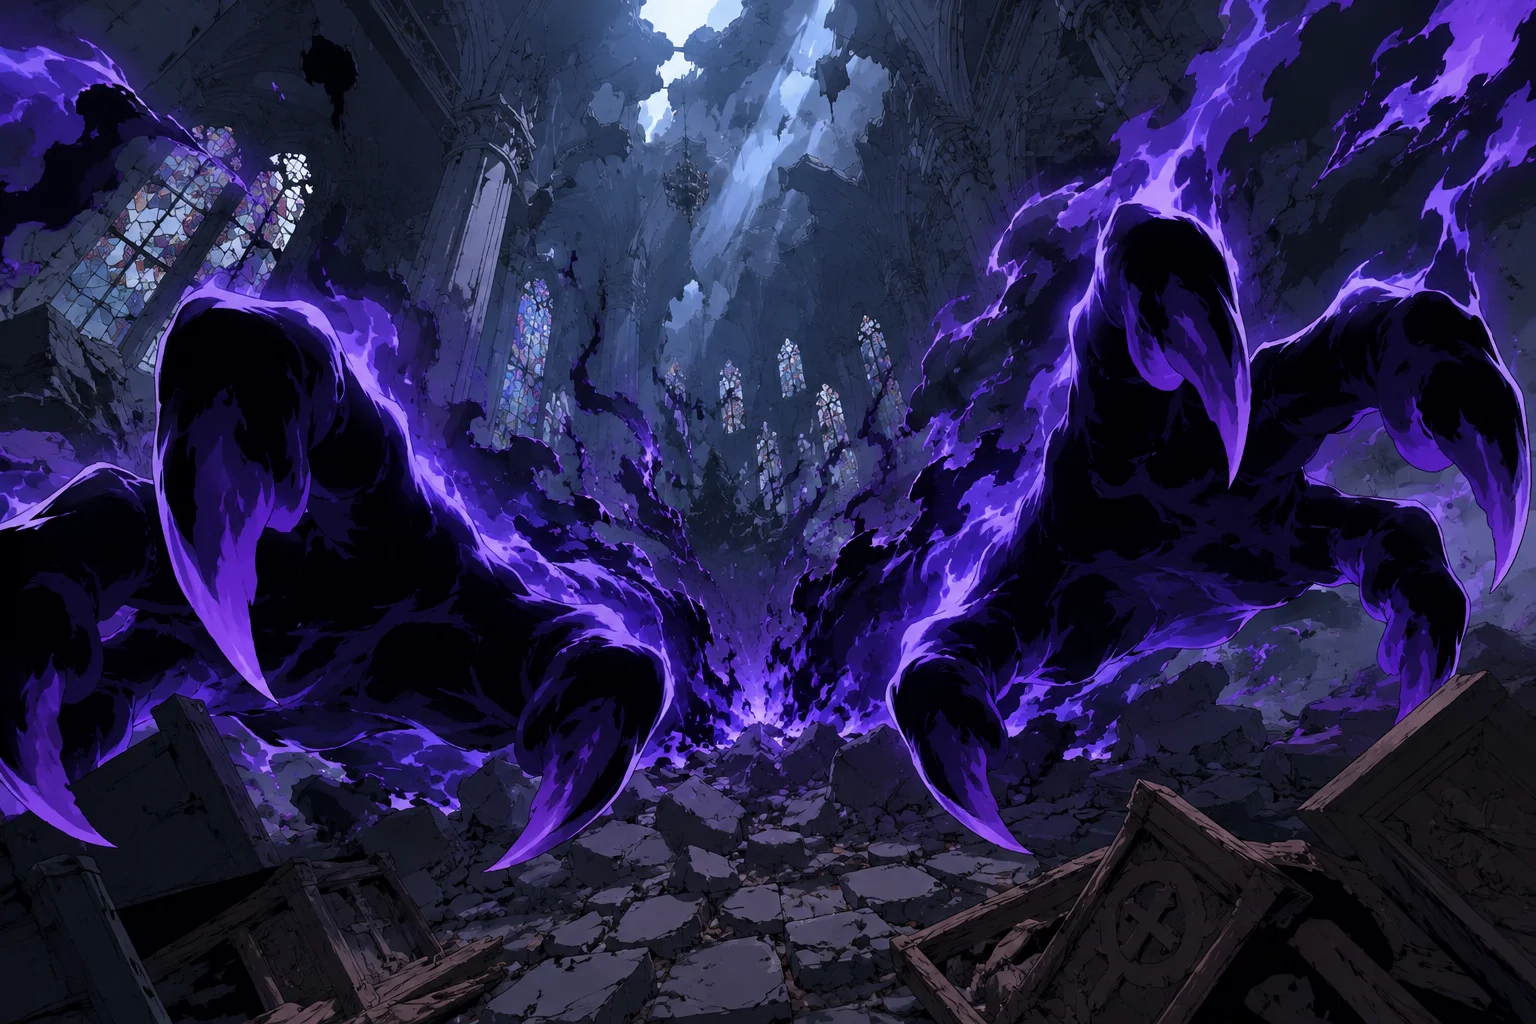
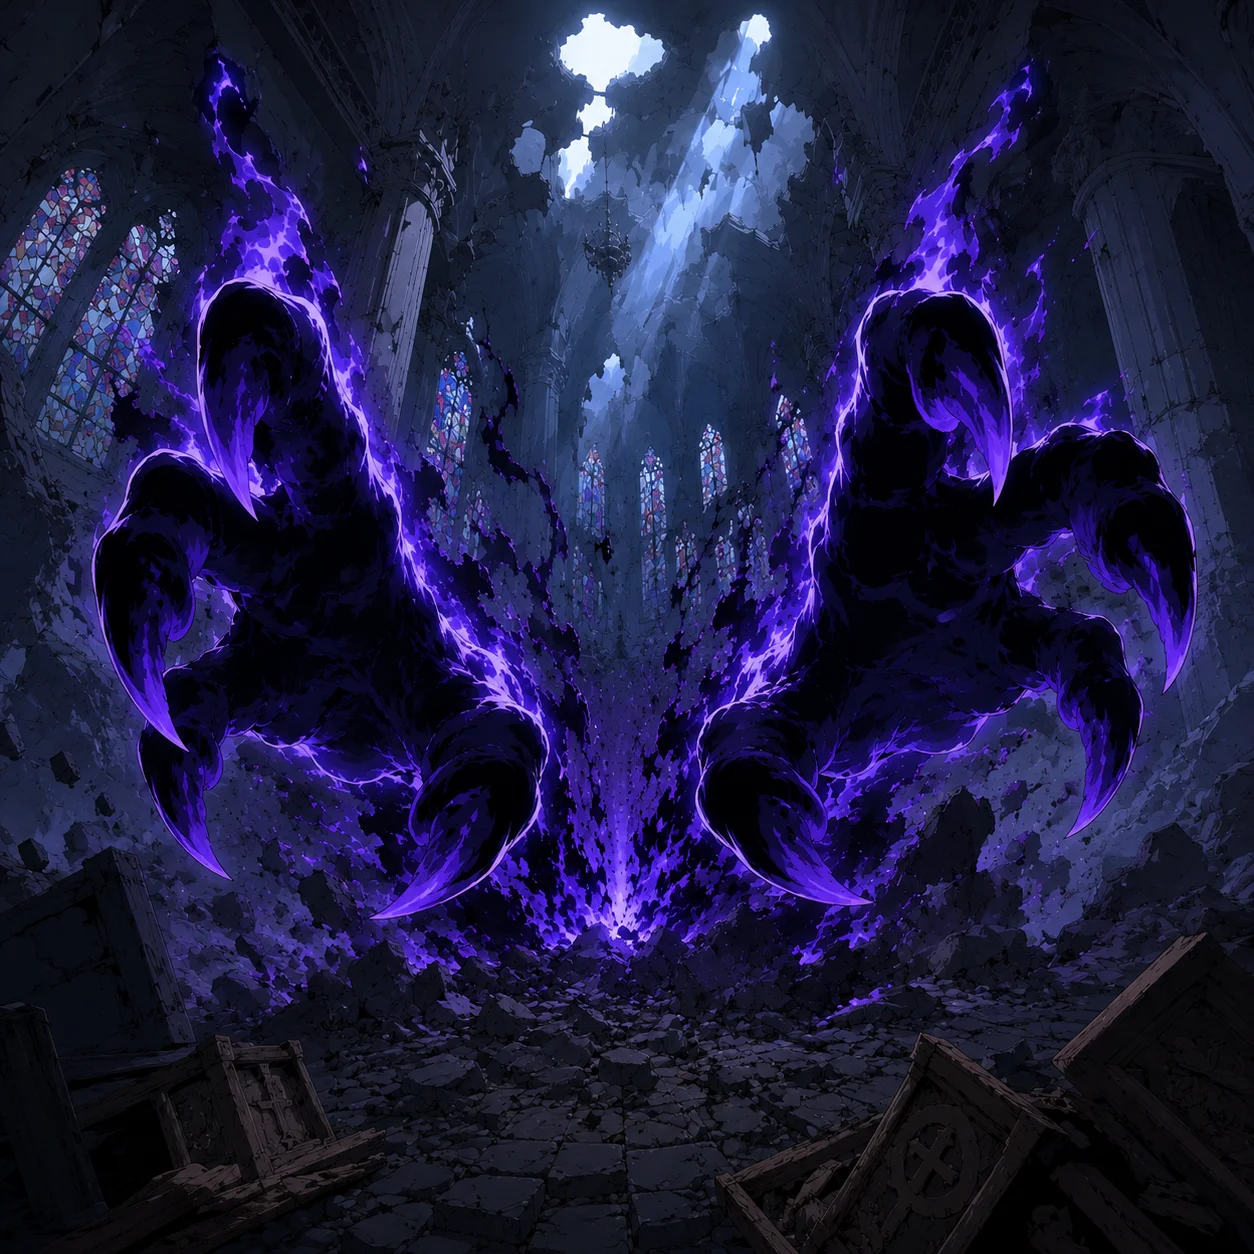
feat(art): TheClaws 換上重繪的正方版，改回滿版 cover ver -617
Ray 交件（1254×1254，1:1）—— 設計完全照舊（教堂廢墟、兩道紫黑能量之爪、
屋頂破洞的光柱、滿地瓦礫），只把兩隻爪往內收、改成往上長。

· 轉 WebP 覆蓋 `resources/enemy/TheClaws.webp`，原 PNG 進 `_originals/enemy/`。
· 敵人卡拿掉 -616 的 `fit:{mode:'contain'}`，**走回滿版 cover** ——
  那個 contain 是 3:2 舊圖的權宜之計（cover 會裁掉左右各約四分之一，
  而爪子正好在兩側）。正方畫幅下 cover 只切掉邊緣約 7%，構圖完整、
  沒有上下黑邊，那才是這張圖原本的呈現方式。
· `bg`＝教堂留著當保底（不走城鎮那條路時單獨叫用）。

實測：np_claws 的立繪是 TheClaws.webp、原始 1254×1254、objectFit cover、
框 390×420、裁切 7.1%。

diff --git a/config.js b/config.js
@@ -1099,13 +1099,13 @@ export const GAME_CONFIG = {
     },
     /* ══ 瓦礫中的紫黑之爪（ver -595，Ray 交稿）══ 教堂那一場之後的真 BOSS，
        也是**聖徒化教學戰**（腳本見 script/town.js 的 northport.church）。
-       ⚠⚠ **走 `contain` 不走 cover**（ver -616，Ray：「禍魘 boss 的圖左右被裁太多」）：
-         這張是 **1536×1024（3:2 橫式）**，而 `#top` 只有 390×422（幾乎正方）——
-         `cover` 會把左右各裁掉一大截，兩隻爪子正好在兩側，整個構圖就沒了。
-         `contain` ＝ 一個像素都不裁，上下留白由 `#top` 的底圖補（城鎮戰交棒時
-         那是教堂那張，ver -592）。
-       ⚠ 另外給 `bg`＝教堂：不是走城鎮那條路（單獨叫用、日後從別處進來）時，
-         留白處才不會是一片黑。
+       ⚠⚠ **圖已重繪成 1254×1254（1:1）**（ver -617，Ray 交件；規格見
+         `resources/background/_boss_claw_spec.md`）—— 所以走回**滿版 cover**。
+         ⚠ -616 曾經改 `contain`：那時的圖是 1536×1024（3:2），而 `#top` 幾乎正方
+           （390×420 ＝ 0.93），cover 會把左右各裁掉約四分之一，而兩隻爪子正好
+           在兩側。重繪時特地把爪往內收，正方畫幅下 cover 只切掉邊緣約 7%，
+           構圖完整而且沒有上下黑邊 —— 這才是這張圖原本的呈現方式。
+       ⚠ `bg`＝教堂留著：不是走城鎮那條路（單獨叫用）時的保底。
        ⚠ 數值先沿用禍魘那一張（Ray 還沒給這一隻的卡）—— 劇情殺的門檻（HP 30%）
          與教學的節奏由腳本那一側管，不是靠數值。 */
     np_claws: {
@@ -1114,7 +1114,6 @@ export const GAME_CONFIG = {
       kind:'harm',
       image:'enemy_np_claws',
       bg:'Northport_church_BF',
-      fit:{ mode:'contain', pos:'center' },
       hp:300,
       attack:10,
       atkInterval:null,
